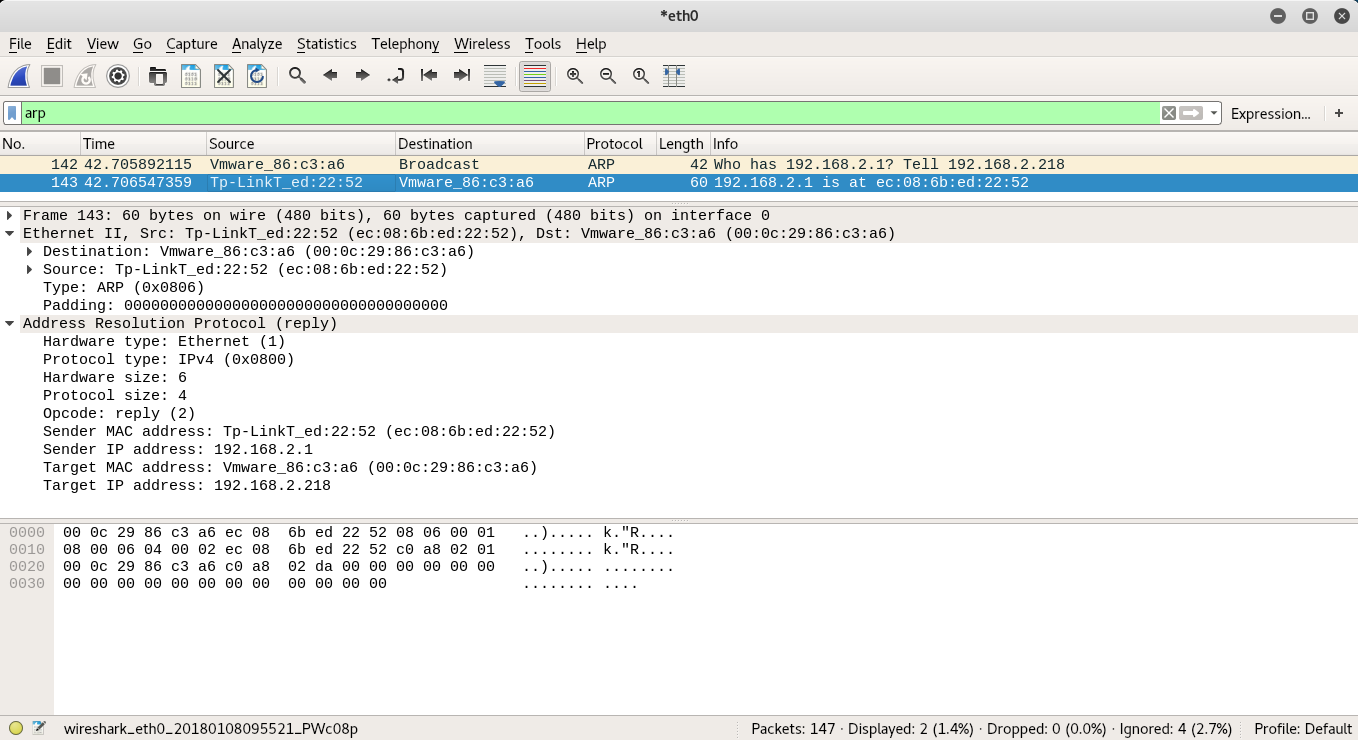
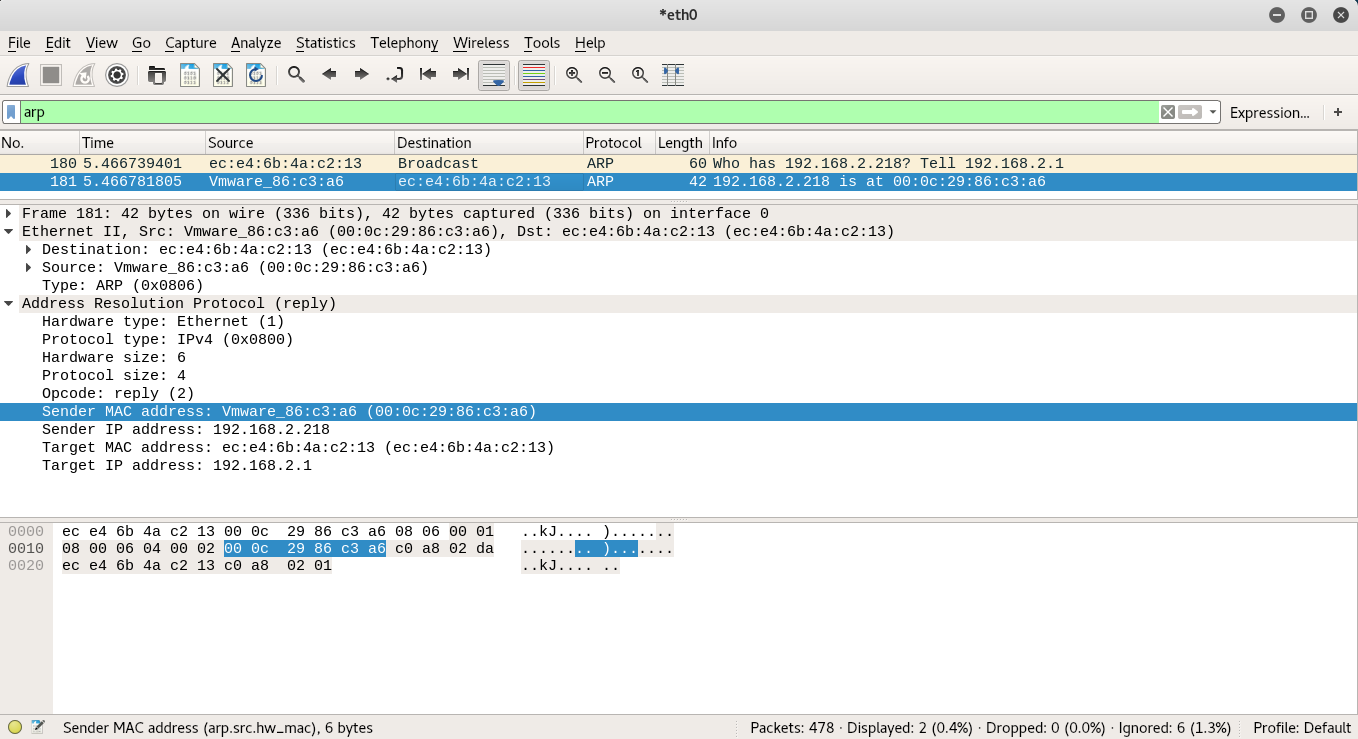
finsh hw5

diff --git a/hw5/README.md b/hw5/README.md
@@ -10,6 +10,40 @@
 
 * Part I: ARP request message
 	* a. the hardware type.
+    		
+    			Hardware type: Ethernet (1)
+    	* b. the protocol type.
+    		
+    			Protocol type: IPv4 (0x0800)
+    	* c. the hardware length.
+    		
+    			Hardware size: 6
+    	* d. the protocol length.
+    				
+    			Protocol size: 4
+    	* e. the operation code.
+    		
+    			Opcode: request (1)
+    	* f. the source hardware address.
+    		
+    			Sender MAC address: ec:e4:6b:4a:c2:13
+    	* g. the source protocol address?
+    		
+    			Sender IP address: 192.168.2.1
+    	* h. the destination hardware address.		
+    	
+    			Target MAC address: Broadcast(ff:ff:ff:ff:ff:ff)
+    			
+    	* i. the destination protocol address?		
+    
+    			Target IP address: 192.168.2.218
+	
+	
+***
+
+![](../image/reply.png)
+* Part II: ARP reply message
+* a. the hardware type.
 		
 			Hardware type: Ethernet (1)
 	* b. the protocol type.
@@ -26,50 +60,15 @@
 			Opcode: request (1)
 	* f. the source hardware address.
 		
-			Sender MAC address: Tp-LinkT_ed:21:49 (ec:08:6b:ed:21:49)
+			Sender MAC address: Vmware_86:c3:a6 (00:0c:29:86:c3:c6)
 	* g. the source protocol address?
 		
 			Sender IP address: 192.168.2.218
 	* h. the destination hardware address.		
 	
-			Target MAC address:00:00:00_00:00:00 (00:00:00:00:00:00)
+			Target MAC address: ec:e4:6b:4a:c2:13
 			
 	* i. the destination protocol address?		
 
 			Target IP address: 192.168.2.1
-	
-	
-***
-
-![](../image/reply.png)
-* Part II: ARP reply message
-
-	* a. the hardware type.
-		
-			Hardware type: Ethernet (1)
-	* b. the protocol type.
-		
-			Protocol type: IPv4 (0x0800)
-	* c. the hardware length.
-		
-			Hardware size: 6
-	* d. the protocol length.
-				
-			Protocol size: 4
-	* e. the operation code.
-		
-			Opcode: reply (2)
-	* f. the source hardware address.
-		
-			Sender MAC address: Apple_83:56:b3 (ac:bc:32:83:56:b3)
-	* g. the source protocol address?
-		
-			Sender IP address: 192.168.2.1
-	* h. the destination hardware address.		
-	
-			Target MAC address: Tp-LinkT_ed:21:49 (ec:08:6b:ed:21:49)
-			
-	* i. the destination protocol address?		
-
-			Target IP address: 192.168.2.218
 	
